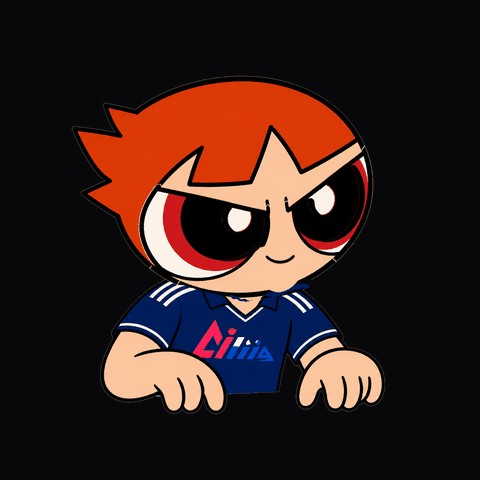
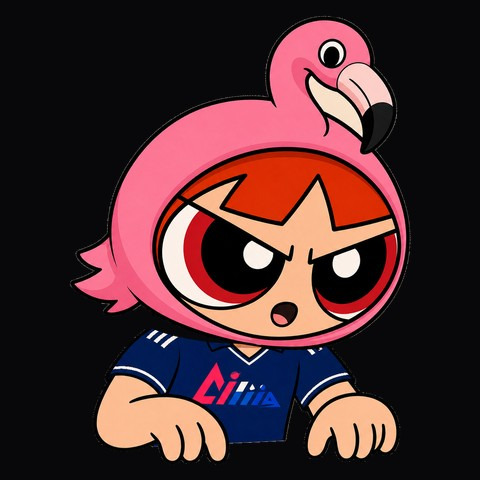
docs: use hooded mingo-vtuber Chibi as 02 showcase
Replace powerpuff-only 02 GIF with flamingo-hood layered rig from
mingo-vtuber/apps/chibi and document it as the canonical 2.5D final.

diff --git a/README.md b/README.md
@@ -8,7 +8,7 @@
 | # | 폴더 | 한 줄 | 움직이는 단위 | 상태 |
 |---|------|------|---------------|------|
 | **1** | **[01-mingo-4cut/](01-mingo-4cut/)** | 4컷 PNG — 입·눈 스위치 | **장면(이미지 전체)** | ✅ |
-| **2** | **[02-chibi-25d/](02-chibi-25d/)** | 치비 2.5D — 파츠 레이어 | **파츠(눈·입·손…)** | ✅ |
+| **2** | **[02-chibi-25d/](02-chibi-25d/)** + **mingo-vtuber Chibi** | 치비 2.5D **플라밍고 후드** 레이어 리그 | **파츠(머리·팔·손·입·눈)** | ✅ |
 | **3** | **[03/](03/)** | (예정) | — | 🔒 |
 | **4** | **[04-vroid-base-custom-girl/](04-vroid-base-custom-girl/)** | VRM 3D 전신 | **본(관절)** | ✅ |
 | — | **[archive/](archive/)** | live2d · flamingo2 · 실험 잔여 | — | 보관 |
@@ -23,7 +23,7 @@
 | 01 · 4컷 PNGTuber | 02 · 치비 2.5D | 04 · VRM 3D |
 |:--:|:--:|:--:|
 | ![01](demos/01-pngtuber.gif) | ![02](demos/02-chibi25d.gif) | ![04](demos/04-vroid.gif) |
-| 입 · 깜빡 · 흔들림 (순수 흑배경) | 고개 기울기 · 시선 · 손 포즈 · 입/깜빡 | 상반신 구도 · 고개/표정 · 부드러운 팔 |
+| 입 · 깜빡 · 흔들림 (순수 흑배경) | **후드 치비** · 고개 · 입 · 윙크 · 손 포즈 | 상반신 구도 · 고개/표정 · 부드러운 팔 |
 
 > 데모는 **설명용 스크립트 모션**이다 (얼굴이 영상에 안 나오게).  
 > 실제 앱은 웹캠 Face/Pose 트래킹으로 구동한다. 소스: [`demos/`](demos/)
@@ -71,37 +71,35 @@ cd 01-mingo-4cut
 
 ---
 
-## 2) chibi-style 2.5 VTuber
+## 2) chibi-style 2.5 VTuber — **플라밍고 후드 최종본**
 
-**원리:** 눈흰자·홍채·입·손 등을 **파츠 PNG로 분리** → PSD 레이어 →  
-[Anime2.5DRig](https://852wa.github.io/Anime2.5DRig/) 에 드롭해 고개/시선/입을 움직인다.
+**대표:** 파워퍼프풍 치비 + **분홍 플라밍고 후드** + 남색 저지.  
+**런타임:** [`mingo-vtuber` / `apps/chibi`](https://github.com/minwoo19930301/mingo-vtuber)  
+몸·머리·양팔(손 포즈)·입·윙크 레이어드 리그 + MediaPipe Holistic.
 
 ```bash
-cd 02-chibi-25d
-../tuber-env/bin/python assemble_chibi.py
-# Chrome: https://852wa.github.io/Anime2.5DRig/ 에 chibi_anime25d.psd 드롭
+cd ../mingo-vtuber   # 형제 레포
+npm install && npm run chibi:dev
+# 데스크톱 오버레이
+npm run desktop:dev
 ```
 
-→ [02-chibi-25d/README.md](02-chibi-25d/README.md)
+README 데모 GIF(`demos/02-chibi25d.gif`)는 이 앱의 `public/rig/*` 로 합성  
+(고개 · 입 · 윙크 · 손 rest/open/point/peace/fist).
 
-### 2.5 버전 여러 개 (로컬에 남아 있음)
+### 헷갈리기 쉬운 폴더
 
-| 버전 | 위치 | 비고 |
+| 버전 | 위치 | 후드? |
 |------|------|------|
-| **v3 활성** | `02-chibi-25d/` | `chibi_anime25d.psd` + `parts/` (현재 슬롯) |
-| **실험 b** | `archive/chibi_experiments/parts_b/` | 파츠 세트 B · `preview_b.png` |
-| **실험 PSD** | `archive/chibi_experiments/chibi_anime25d_*.psd` | 복사본 / b / v3 |
-| **QA 합성** | `archive/chibi_experiments/parts/qa_*.png` | idle·blink·talk **정답 합성** |
-| **flamingo2** | `archive/flamingo2/` | 다른 치비/생성 파이프 |
+| **✅ 최종 치비** | `mingo-vtuber/apps/chibi/` | ✅ |
+| `02-chibi-25d/` | Anime2.5D PSD 실험 (후드 없음) | ❌ |
+| `archive/live2d/` | 플라밍고 **본체** Live2D | 본체 |
+| hood 시안 | `mingo-vtuber/.../flamingo-hood-*` | ✅ |
 
-버전 비교 시트: ![chibi versions](demos/chibi_versions_compare.png)  
-(`demos/chibi_versions_compare.png`)
-
-**깜빡임 합성 주의:** open-eye 레이어(`eyewhite`·`irides`·`eyelash`)를 켠 채로  
-`eye_close`만 올리면 **뜨지도 감지도 않은 눈**처럼 보인다.  
-깜빡일 때는 open-eye를 **전부 끄고** closed lid만 켠다. (데모: `demos/demo_02_clean.py`)
+사진 비교: `demos/chibi_hood_compare/COMPARE_sheet.jpg`
 
 ---
+
 
 ## 4) vroid-base-custom-girl — 3D 전신 VTuber
 
